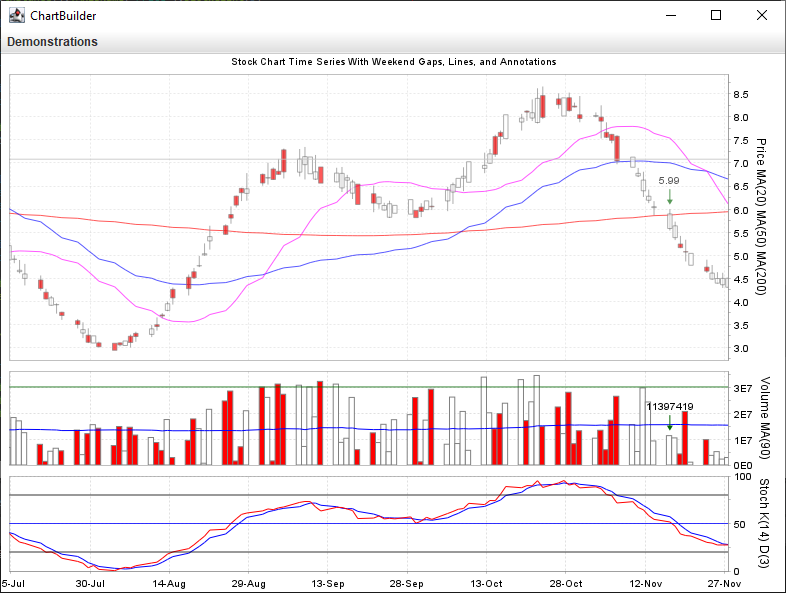
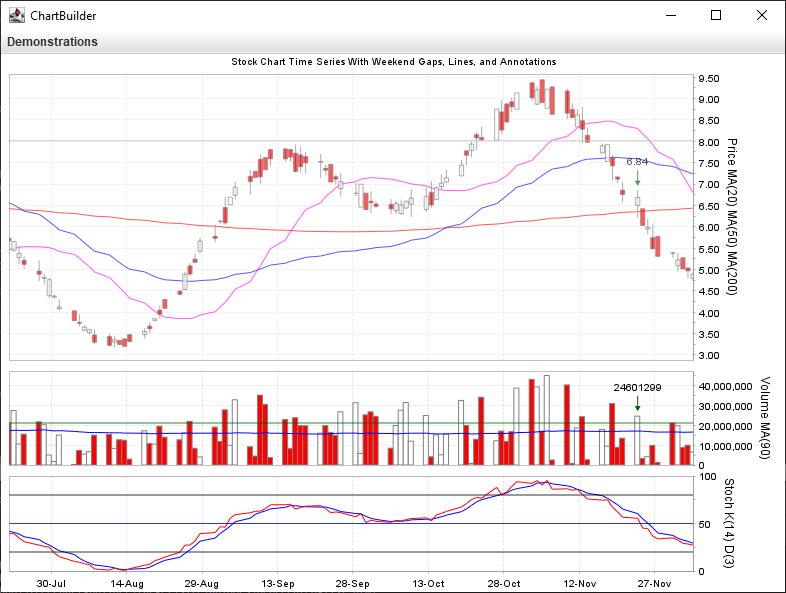
Add ability to control y-axis tick formatting
* Also adjust demo code to match jfreechart-builder README samples

diff --git a/src/main/java/com/jfcbuilder/demo/JFreeChartBuilderDemo.java b/src/main/java/com/jfcbuilder/demo/JFreeChartBuilderDemo.java
@@ -26,6 +26,7 @@ import java.awt.HeadlessException;
 import java.awt.Stroke;
 import java.awt.event.ActionEvent;
 import java.awt.event.ActionListener;
+import java.text.DecimalFormat;
 import java.time.DayOfWeek;
 import java.time.LocalDateTime;
 import java.time.temporal.ChronoUnit;
@@ -44,6 +45,7 @@ import org.jfree.chart.ChartPanel;
 import org.jfree.chart.JFreeChart;
 import org.jfree.chart.ui.TextAnchor;
 
+import com.jfcbuilder.builders.BuilderConstants;
 import com.jfcbuilder.builders.ChartBuilder;
 import com.jfcbuilder.builders.LineBuilder;
 import com.jfcbuilder.builders.OhlcPlotBuilder;
@@ -62,7 +64,6 @@ import com.jfcbuilder.demo.data.providers.numeric.Sinusoid;
 import com.jfcbuilder.demo.data.providers.numeric.Sma;
 import com.jfcbuilder.demo.data.providers.numeric.StochasticOscillator;
 import com.jfcbuilder.demo.data.providers.numeric.StochasticOscillator.StochData;
-import com.jfcbuilder.types.BuilderConstants;
 import com.jfcbuilder.types.DohlcvSeries;
 
 /**
@@ -147,119 +148,155 @@ public class JFreeChartBuilderDemo {
     final int sinusoidMinuteEndIndex = numSinusoiMinuteElems - 1;
     final int sinusoidMinuteStartIndex = 0; // All data
     
-    
-    // Now generate the demo charts!
-    
-    List<JFreeChart> charts = new ArrayList<>();
-    
     final int arrowIndex = (int) (0.75 * sinusoidDays.length);
     final double arrowX = (double) sinusoidDays[arrowIndex];
     final double arrowY = sinDaily1[arrowIndex];
     final String arrowTxt = String.format("%.1f", arrowY);
     
-    final int stockEventIndex = dohlcv.dates().length - 10;
-    final long stockEventDate = dohlcv.dates()[stockEventIndex];
-    final double stockEventPrice = dohlcv.highs()[stockEventIndex];
-    final double stockEventVolume = dohlcv.volumes()[stockEventIndex];
+    // Reusable handles to objects to facilitate naming for re-use in documentation examples.
+    double[] array1, array2, array3, array4;
+    long[] timeArray;
+    int startIndex, endIndex;
+    
+    // Now generate the demo charts!
+    
+    List<JFreeChart> charts = new ArrayList<>();
+
+    timeArray = sinusoidDays;
+    array1 = sinDaily1;
+    startIndex = sinusoidDailyStartIndex;
+    endIndex = sinusoidDailyEndIndex;
     
     charts.add(
       ChartBuilder.get()
         .title("Simple Time Series With Annotations")
-        .timeData(sinusoidDays)
-        .indexRange(sinusoidDailyStartIndex, sinusoidDailyEndIndex)
-        .xyPlot(XYPlotBuilder.get()
-          .series(XYTimeSeriesBuilder.get().name("Amplitude").data(sinDaily1).color(Color.BLUE).style(SOLID_LINE))
+        .timeData(timeArray)
+        .indexRange(startIndex, endIndex)
+        .xyPlot(XYPlotBuilder.get().gridLines()
+          .series(XYTimeSeriesBuilder.get().name("Amplitude").data(array1).color(Color.BLUE).style(SOLID_LINE))
           .annotation(XYArrowBuilder.get().x(arrowX).y(arrowY).angle(180.0).color(Color.RED).text(arrowTxt))
           .annotation(XYArrowBuilder.get().x(arrowX).y(arrowY).angle(0.0).color(Color.RED))
           .annotation(XYTextBuilder.get().x(arrowX).y(arrowY).color(DARK_GREEN)
             .text("This value!").textPaddingLeft(5).textAlign(TextAnchor.BASELINE_LEFT).angle(90.0)))
         .build()
       );
+
+    
+    timeArray = sinusoidDays;
+    array1 = sinDaily1;
+    array2 = sinDaily2;
+    array3 = sinDaily3;
+    array4 = sinDaily4;
+    startIndex = sinusoidDailyStartIndex;
+    endIndex = sinusoidDailyEndIndex;
     
     charts.add(
       ChartBuilder.get()
         .title("Multi Daily Time Series")
-        .timeData(sinusoidDays)
-        .indexRange(sinusoidDailyStartIndex, sinusoidDailyEndIndex)
-        .xyPlot(XYPlotBuilder.get().yAxisName("Values")
-          .series(XYTimeSeriesBuilder.get().data(sinDaily1).color(Color.BLUE).style(SOLID_LINE))
-          .series(XYTimeSeriesBuilder.get().data(sinDaily2).color(Color.RED).style(SOLID_LINE))
-          .series(XYTimeSeriesBuilder.get().data(sinDaily3).color(DARK_GREEN).style(SOLID_LINE))
-          .series(XYTimeSeriesBuilder.get().data(sinDaily4).color(Color.MAGENTA).style(SOLID_LINE)))
+        .timeData(timeArray)
+        .indexRange(startIndex, endIndex)
+        .xyPlot(XYPlotBuilder.get().yAxisName("Values").gridLines()
+          .series(XYTimeSeriesBuilder.get().data(array1).color(Color.BLUE).style(SOLID_LINE))
+          .series(XYTimeSeriesBuilder.get().data(array2).color(Color.RED).style(SOLID_LINE))
+          .series(XYTimeSeriesBuilder.get().data(array3).color(DARK_GREEN).style(SOLID_LINE))
+          .series(XYTimeSeriesBuilder.get().data(array4).color(Color.MAGENTA).style(SOLID_LINE)))
         .build()
       );
-    
+
+
+    timeArray = sinusoidMinutes;
+    array1 = sinMinute1;
+    array2 = sinMinute2;
+    array3 = sinMinute3;
+    array4 = sinMinute4;
+    startIndex = sinusoidMinuteStartIndex;
+    endIndex = sinusoidMinuteEndIndex;
+
     charts.add(
       ChartBuilder.get()
         .title("Multi Plot Minute Time Series")
-        .timeData(sinusoidMinutes)
-        .indexRange(sinusoidMinuteStartIndex, sinusoidMinuteEndIndex)
+        .timeData(timeArray)
+        .indexRange(startIndex, endIndex)
 
         .xyPlot(XYPlotBuilder.get().yAxisName("Values")
           .backgroundColor(Color.DARK_GRAY).axisColor(Color.RED).axisFontColor(Color.BLUE).gridLines()
-          .series(XYTimeSeriesBuilder.get().data(sinMinute1).color(Color.YELLOW).style(SOLID_LINE))
-          .series(XYTimeSeriesBuilder.get().data(sinMinute2).color(Color.RED).style(SOLID_LINE))
-          .series(XYTimeSeriesBuilder.get().data(sinMinute3).color(Color.GREEN).style(SOLID_LINE))
-          .series(XYTimeSeriesBuilder.get().data(sinMinute4).color(Color.MAGENTA).style(SOLID_LINE)))
-        
-        .xyPlot(XYPlotBuilder.get().yAxisName("Amplitudes")
-          .series(XYTimeSeriesBuilder.get().data(sinMinute2).color(Color.BLACK).style(SOLID_LINE))
-          .series(XYTimeSeriesBuilder.get().data(sinMinute3).color(Color.LIGHT_GRAY).style(SOLID_LINE)))
-        
+          .series(XYTimeSeriesBuilder.get().data(array1).color(Color.YELLOW).style(SOLID_LINE))
+          .series(XYTimeSeriesBuilder.get().data(array2).color(Color.RED).style(SOLID_LINE))
+          .series(XYTimeSeriesBuilder.get().data(array3).color(Color.GREEN).style(SOLID_LINE))
+          .series(XYTimeSeriesBuilder.get().data(array4).color(Color.MAGENTA).style(SOLID_LINE)))
+  
+        .xyPlot(XYPlotBuilder.get().yAxisName("Amplitudes").noGridLines()
+          .series(XYTimeSeriesBuilder.get().data(array2).color(Color.BLACK).style(SOLID_LINE))
+          .series(XYTimeSeriesBuilder.get().data(array3).color(Color.LIGHT_GRAY).style(SOLID_LINE)))
+  
         .xyPlot(XYPlotBuilder.get().yAxisName("Series 1")
           .backgroundColor(DARK_GREEN).axisColor(Color.RED).axisFontColor(Color.BLUE).gridLines()
-          .series(XYTimeSeriesBuilder.get().data(sinMinute1).color(Color.GREEN).style(SOLID_LINE)))
-        
+          .series(XYTimeSeriesBuilder.get().data(array1).color(Color.GREEN).style(SOLID_LINE)))
+  
         .xyPlot(XYPlotBuilder.get().yAxisName("Series 2")
           .backgroundColor(DARK_RED).axisColor(Color.RED).axisFontColor(Color.BLUE).gridLines()
-          .series(XYTimeSeriesBuilder.get().data(sinMinute2).color(Color.RED).style(SOLID_LINE)))
-        
+          .series(XYTimeSeriesBuilder.get().data(array2).color(Color.RED).style(SOLID_LINE)))
+  
         .xyPlot(XYPlotBuilder.get().yAxisName("Series 3")
           .backgroundColor(DARK_BLUE).axisColor(Color.RED).axisFontColor(Color.BLUE).gridLines()
-          .series(XYTimeSeriesBuilder.get().data(sinMinute3).color(Color.CYAN).style(SOLID_LINE)))
-        
+          .series(XYTimeSeriesBuilder.get().data(array3).color(Color.CYAN).style(SOLID_LINE)))
+  
         .build()
       );
     
+
+    timeArray = dohlcv.dates();
+    array1 = sinDaily1;
+    array2 = sinDaily2;
+    array3 = sinDaily3;
+    array4 = sinDaily4;
+    startIndex = ohlcStartIndex;
+    endIndex = ohlcEndIndex;
+
+    final int stockEventIndex = timeArray.length - 10;
+    final long stockEventDate = timeArray[stockEventIndex];
+    final double stockEventPrice = dohlcv.highs()[stockEventIndex];
+    final double stockEventVolume = dohlcv.volumes()[stockEventIndex];
+    final double resistanceLevel = dohlcv.closes()[0];
+    final double volumeLine = dohlcv.volumes()[0];
+    
+    final DecimalFormat volNumFormat = new DecimalFormat("#");
+    volNumFormat.setGroupingUsed(true);
+    volNumFormat.setGroupingSize(3);
+
     charts.add(
       ChartBuilder.get()
   
         .title("Stock Chart Time Series With Weekend Gaps, Lines, and Annotations")
-        .timeData(dohlcv.dates())
-        .indexRange(ohlcStartIndex, ohlcEndIndex)
-    
-        .xyPlot(OhlcPlotBuilder.get().yAxisName("Price").plotWeight(3)
+        .timeData(timeArray)
+        .indexRange(startIndex, endIndex)
+
+        .xyPlot(OhlcPlotBuilder.get().yAxisName("Price").plotWeight(3).gridLines()
           .series(OhlcSeriesBuilder.get().ohlcv(dohlcv).upColor(Color.WHITE).downColor(Color.RED))
           .series(XYTimeSeriesBuilder.get().name("MA(20)").data(sma20).color(Color.MAGENTA).style(SOLID_LINE))
           .series(XYTimeSeriesBuilder.get().name("MA(50)").data(sma50).color(Color.BLUE).style(SOLID_LINE))
           .series(XYTimeSeriesBuilder.get().name("MA(200)").data(sma200).color(Color.RED).style(SOLID_LINE))
-          
           .annotation(XYArrowBuilder.get().x(stockEventDate).y(stockEventPrice).angle(270.0).color(DARK_GREEN)
             .textAlign(TextAnchor.BOTTOM_CENTER).text(String.format("%.2f", stockEventPrice)))
-          
-          .line(LineBuilder.get().horizontal().at(dohlcv.closes()[0])
-            .color(Color.LIGHT_GRAY).style(SOLID_LINE)))
-    
-        
-        .xyPlot(VolumeXYPlotBuilder.get().yAxisName("Volume").plotWeight(1)
+          .line(LineBuilder.get().horizontal().at(resistanceLevel)
+          .color(Color.LIGHT_GRAY).style(SOLID_LINE)))
+  
+        .xyPlot(VolumeXYPlotBuilder.get().yAxisName("Volume").yTickFormat(volNumFormat).plotWeight(1).gridLines()
           .series(VolumeXYTimeSeriesBuilder.get().ohlcv(dohlcv).closeUpSeries().color(Color.WHITE))
           .series(VolumeXYTimeSeriesBuilder.get().ohlcv(dohlcv).closeDownSeries().color(Color.RED))
           .series(XYTimeSeriesBuilder.get().name("MA(90)").data(volSma90).color(Color.BLUE).style(SOLID_LINE))
-          
           .annotation(XYArrowBuilder.get().x(stockEventDate).y(stockEventVolume).angle(270.0).color(DARK_GREEN)
             .textAlign(TextAnchor.BOTTOM_CENTER).text(String.format("%.0f", stockEventVolume)))
-          
-          .line(LineBuilder.get().horizontal().at(dohlcv.volumes()[0])
-            .color(DARK_GREEN).style(SOLID_LINE)))
-    
-        
-        .xyPlot(XYPlotBuilder.get().yAxisName("Stoch").yAxisRange(0.0, 100.0).yAxisTickSize(50.0).plotWeight(1)
+          .line(LineBuilder.get().horizontal().at(volumeLine)
+          .color(DARK_GREEN).style(SOLID_LINE)))
+  
+        .xyPlot(XYPlotBuilder.get().yAxisName("Stoch").yAxisRange(0.0, 100.0).yAxisTickSize(50.0).plotWeight(1).gridLines()
           .series(XYTimeSeriesBuilder.get().name("K(" + K + ")").data(stoch.getPctK()).color(Color.RED).style(SOLID_LINE))
           .series(XYTimeSeriesBuilder.get().name("D(" + D + ")").data(stoch.getPctD()).color(Color.BLUE).style(SOLID_LINE))
           .line(LineBuilder.get().horizontal().at(80.0).color(Color.BLACK).style(SOLID_LINE))
           .line(LineBuilder.get().horizontal().at(50.0).color(Color.BLUE).style(SOLID_LINE))
           .line(LineBuilder.get().horizontal().at(20.0).color(Color.BLACK).style(SOLID_LINE)))
-    
+  
         .build()
     );
 

diff --git a/src/main/java/com/jfcbuilder/demo/data/providers/RandomDohlcvGenerator.java b/src/main/java/com/jfcbuilder/demo/data/providers/RandomDohlcvGenerator.java
@@ -37,7 +37,7 @@ public class RandomDohlcvGenerator implements IDohlcvProvider {
 
   private static final double MAX_TRENDLINE_AMPLITUDE = 2.0;
   private static final double MAX_CANDLE_RANGE_PERCENT_CHANGE = 0.10;
-  private static final double MAX_VOLUME = 10_000_000.0;
+  private static final double MAX_VOLUME = 100_000_000.0;
 
   /**
    * Hidden constructor

diff --git a/README.md b/README.md
@@ -37,14 +37,14 @@ Each time `develop` is merged into `main`, a version tag is added onto that merg
 ## Installing the source code
 
 ```
-git clone <repo URL>
+git clone <this repo's URL>
 ```
 
 
 ## Building and installing the JAR
 
 ```
-cd path/to/the/cloned/repo
+cd path/to/cloned/repo
 
 git checkout <desired branch or tag>
 
